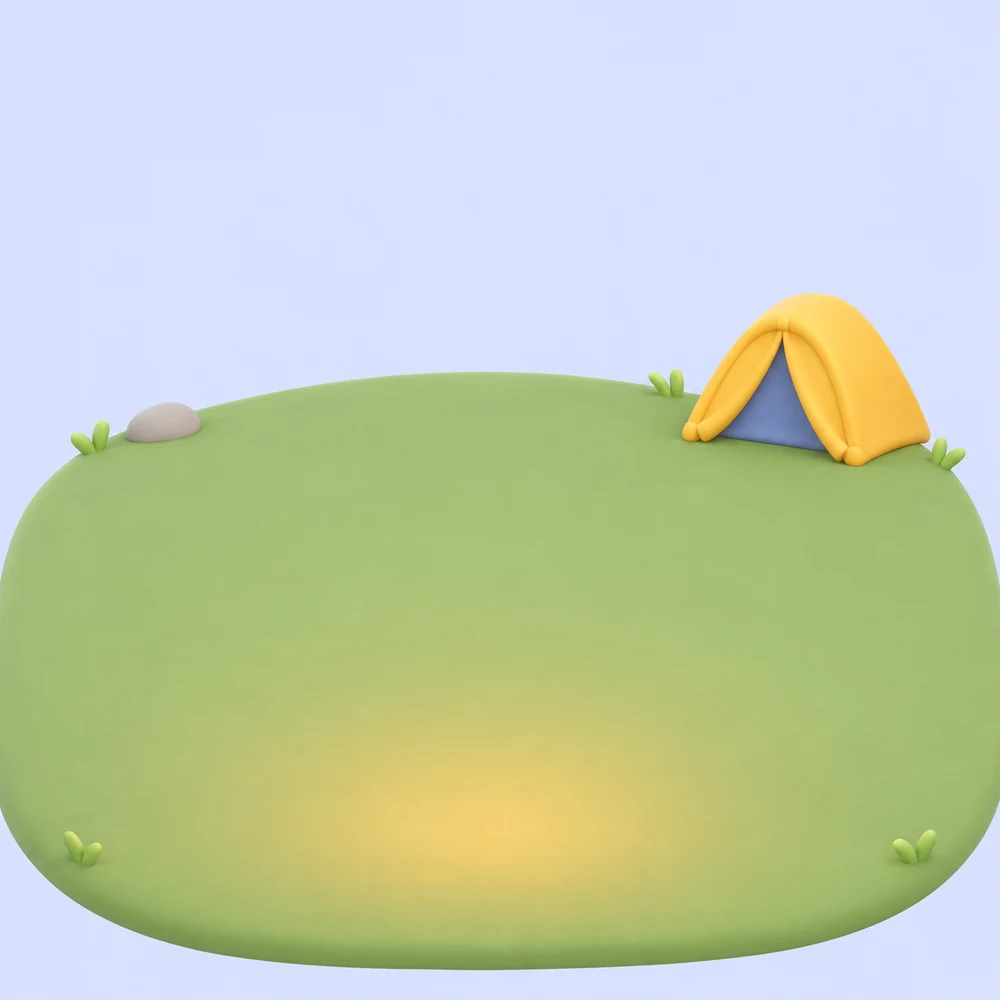
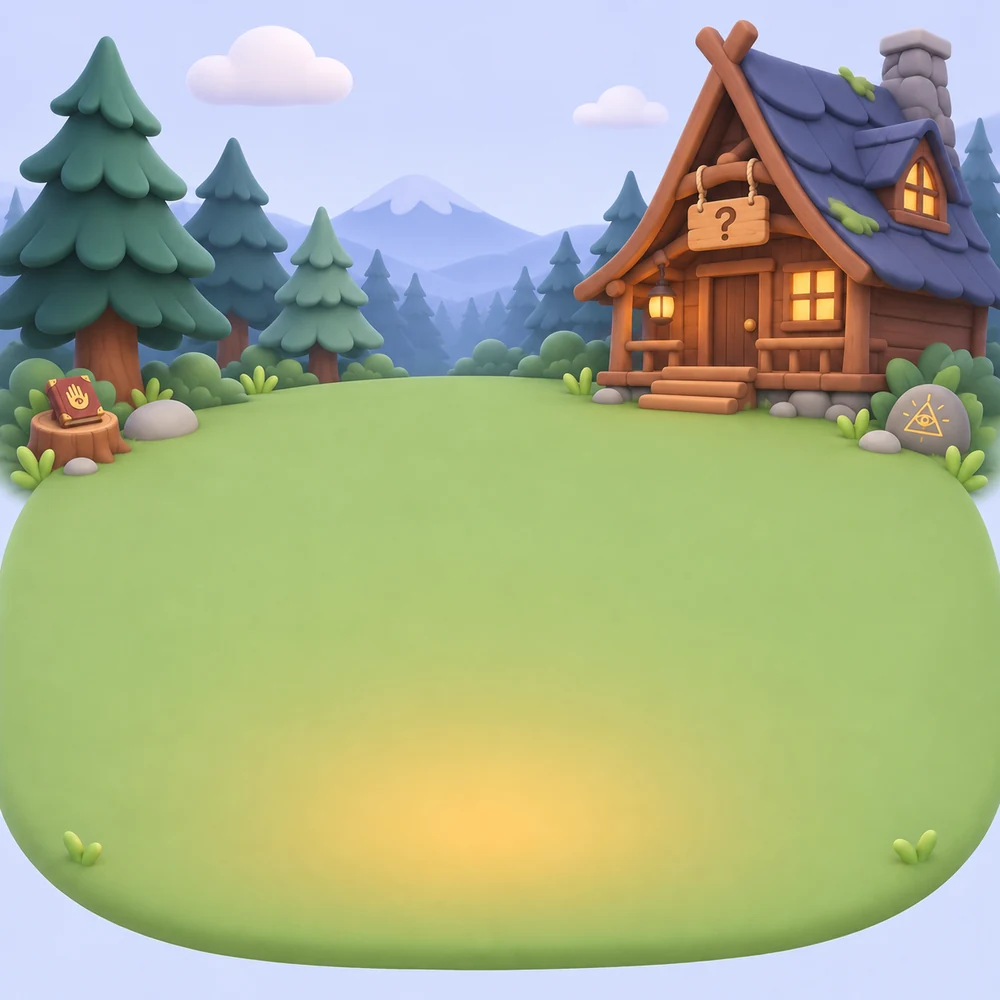
Enrich campsite scenery with larger cabin and subtle Gravity Falls details

diff --git a/src/team-camp.css b/src/team-camp.css
@@ -5,7 +5,7 @@
 .camp-scenery{position:absolute;inset:0;width:100%;height:100%;object-fit:cover;border-radius:inherit;pointer-events:none}
 .camp-person{position:absolute;width:51%;height:230px;bottom:20px;z-index:2;pointer-events:none}.camp-avatar{height:100%;width:100%;position:relative}.camp-avatar>.avatar-art{width:100%;height:100%}.camp-original{left:-7%}.camp-sheet{width:47%;height:210px;left:27%;bottom:94px;z-index:1}.camp-ivan{right:-7%}.camp-ivan .camp-avatar{transform:scaleX(-1)}
 .camp-done .camp-avatar{filter:drop-shadow(0 0 7px #ffd08460)}.camp-name{position:absolute;bottom:12px;left:50%;transform:translateX(-50%);padding:4px 10px;background:#f9faffed;border-radius:14px;color:#4e67bb;font-size:11px;font-weight:750;white-space:nowrap}.camp-sheet .camp-name{bottom:12px}.camp-check{position:absolute;right:20%;top:20%;display:grid;place-items:center;background:#52bc7c;color:white;border:2px solid #fff;border-radius:50%;width:24px;height:24px}
-.camp-fire{position:absolute;width:170px;height:135px;bottom:12px;left:50%;transform:translateX(-50%);z-index:3;pointer-events:none}.camp-fire .minimal-sword,.camp-fire .minimal-aura{display:none}.camp-fire .minimal-bonfire{height:100%;width:100%}.camp-fire .minimal-fire-glow{fill:#ffc15c;fill-opacity:.35}.camp-fire .minimal-flames{animation:minimal-ignite .8s both}.camp-light{position:absolute;bottom:17px;left:18%;right:18%;height:170px;background:radial-gradient(ellipse,#ffbd5555,transparent 68%);z-index:2;pointer-events:none;animation:camp-glow 2.7s ease-in-out infinite}
+.camp-fire{position:absolute;width:170px;height:135px;bottom:12px;left:50%;transform:translateX(-50%);z-index:3;pointer-events:none}.camp-fire .minimal-sword,.camp-fire .minimal-aura{display:none}.camp-fire .minimal-bonfire{height:100%;width:100%}.camp-fire .minimal-fire-glow{fill:#ffc15c;fill-opacity:.35}.camp-fire .minimal-flames{animation:none}.camp-light{position:absolute;bottom:17px;left:18%;right:18%;height:170px;background:radial-gradient(ellipse,#ffbd5555,transparent 68%);z-index:2;pointer-events:none;animation:camp-glow 2.7s ease-in-out infinite}
 .camp-members{background:#fff;border:1px solid #e4e9fa;border-radius:20px;padding:2px 15px}.camp-member{display:flex;align-items:center;gap:10px;padding:13px 0}.camp-member+.camp-member{border-top:1px solid #eef0fa}.camp-member>div{flex:1}.camp-member strong{display:block;font-size:13px;color:#344768}.camp-member>div>span{display:block;font-size:11px;color:#8a95ac;margin-top:3px}.camp-member>small{font-size:10px;color:#8191b3;background:#f1f4ff;border-radius:8px;padding:5px 8px}.camp-member-status{width:29px;height:29px;border-radius:10px;background:#f2f4fa;color:#a2acc0;display:grid;place-items:center}.camp-member-status.done{color:#289866;background:#e9f8ee}.camp-member-status.rest{color:#6583dc;background:#edf1ff}.camp-pending-dot{width:6px;height:6px;background:currentColor;border-radius:50%}.camp-footer{display:flex;align-items:center;justify-content:space-between;margin-top:8px;color:#96a1b6;font-size:10px}.camp-footer .icon-button{width:32px;height:32px}
 @keyframes camp-glow{0%,100%{opacity:.65;transform:scale(.94)}45%{opacity:1;transform:scale(1.07)}70%{opacity:.8;transform:scale(.99)}}
 @media(max-width:370px){.modal.camp-modal{padding:18px 16px 10px}.camp-modal .modal-heading h2{font-size:21px}.camp-scene{height:290px}.camp-person{height:210px}.camp-sheet{height:190px;bottom:80px}.camp-fire{width:145px;height:120px}.camp-name{font-size:10px;padding:4px 8px}}
